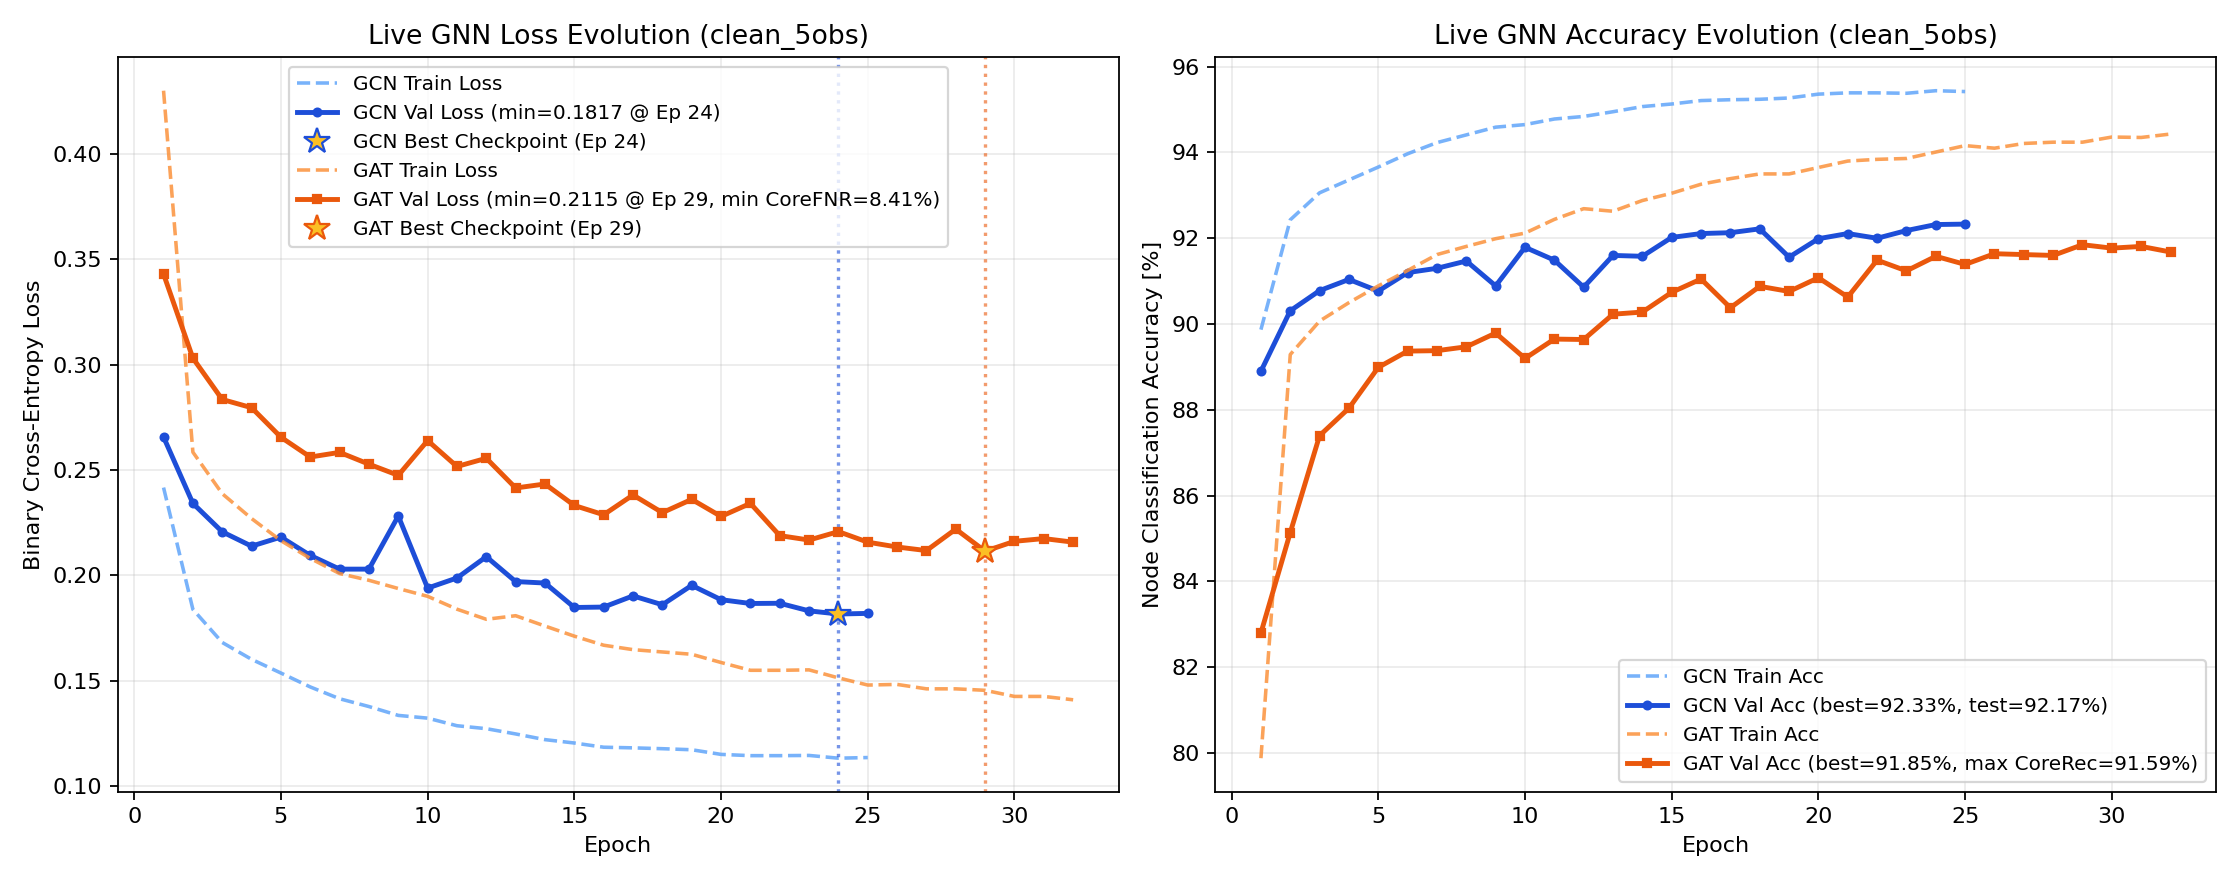
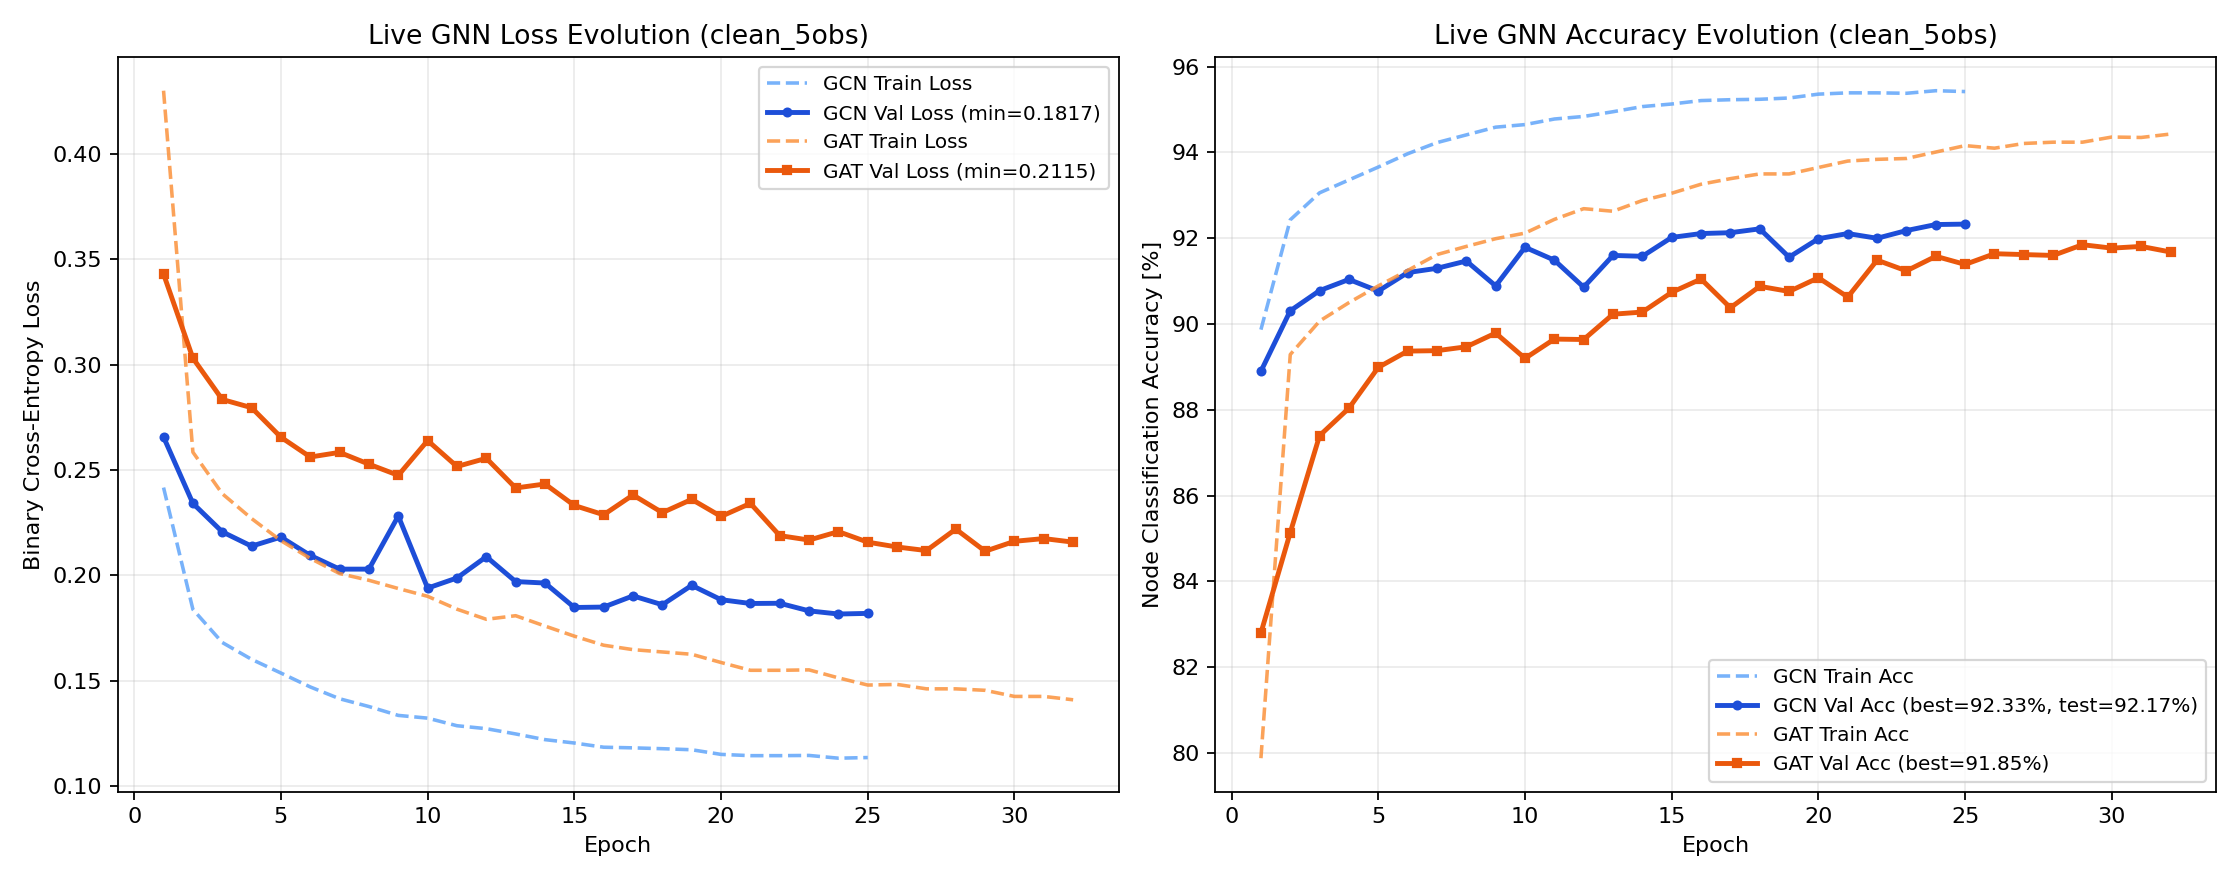
Update Study 2 live status and figures (2026-11-13 15:24)

Changed region(s): [[0.125, 0.0614, 0.5, 0.2761], [0.7188, 0.7364, 0.9688, 0.8898], [0.4375, 0.6136, 0.4688, 0.6443]]

diff --git a/LIVE_STATUS.md b/LIVE_STATUS.md
@@ -1,16 +1,15 @@
 # Live Pipeline Status on Jed
 
 ```text
-[2026-11-13 15:23:19] Study 2 Pipeline Status on Jed
+[2026-11-13 15:24:59] Study 2 Pipeline Status on Jed
 - Step 1 (Plummer ICs): 81 / 81 ready
 - Step 2 (SWIFT Runs): 81 / 81 completed (101 snapshots)
 - Step 3 (Observables): Labels=81/81 | Clean=81/81 | GaiaNoisy=81/81
 - Step 4 (5D Graphs): Clean=81/81 | GaiaNoisy=81/81
 - Step 5/6 Live GNN Training Progress:
-  * clean_5obs/training_metrics_gat_clean.log: Ep 032 | Train 0.1410 (94.43%) | Val 0.2158 (91.68%, Best=91.85%) | CoreFNR: 9.87% (min=8.41%) | Test=In progress
+  * clean_5obs/training_metrics_gat_clean.log: Ep 032 | Train 0.1410 (94.43%) | Val 0.2158 (91.68%, Best=91.85%) | Test=In progress
   * clean_5obs/training_metrics_gcn_clean.log: Ep 025 | Train 0.1136 (95.42%) | Val 0.1820 (92.33%, Best=92.33%) | Test=92.17%
   * legacy/clean_5obs_static_5rot/training_metrics_gcn_clean.log: Ep 025 | Train 0.1136 (95.42%) | Val 0.1820 (92.33%, Best=92.33%) | Test=92.17%
-- Saved Model Checkpoints (.pth): 8 mirrored in GNN-jed/trained_models/study2/weights/
 
 SLURM Queue:
 JOBID  PARTITION                   NAME   ST       TIME  NODES NODELIST(REASON)
@@ -20,29 +19,16 @@ JOBID  PARTITION                   NAME   ST       TIME  NODES NODELIST(REASON)
 41146835_[0-4%   academic      Study2_Step6_4Obs   PD       0:00      2 (Dependency)
       41185010   academic Study2V2_Step4_BuildGr   PD       0:00      1 (Dependency)
 41185009_[0-80   academic Study2V2_Step3_Extract   PD       0:00      1 (Dependency)
-      41146834   academic   Study2_Step5_Train81    R 1-00:35:56      2 jst[317,320]
+      41146834   academic   Study2_Step5_Train81    R 1-00:37:50      2 jst[317,320]
 ```
 
 ## Live Neural Network Training Metrics
 
-| Experiment | Architecture | Latest Epoch | Train Loss | Train Acc | Val Loss | Val Acc | Best Val Acc | Core FNR | Test Acc | Test F1 |
-| :--- | :---: | :---: | :---: | :---: | :---: | :---: | :---: | :---: | :---: | :---: |
-| `clean_5obs` | **GAT** | 32 | 0.1410 | 94.43% | 0.2158 | 91.68% | **91.85%** | 8.41% (val min) | **In progress** | - |
-| `clean_5obs` | **GCN** | 25 | 0.1136 | 95.42% | 0.1820 | 92.33% | **92.33%** | - | **92.17%** | 0.8886 |
-| `clean_5obs_static_5rot` | **GCN** | 25 | 0.1136 | 95.42% | 0.1820 | 92.33% | **92.33%** | - | **92.17%** | 0.8886 |
-
-## Saved Model Weights (`.pth` Checkpoints)
-
-| Checkpoint | Size | Experiment Path | Central Archive Mirror |
-| :--- | :---: | :--- | :--- |
-| `best_gat_clean.pth` | 361.2 KB | `GNN-jed/trained_models/study2/clean_5obs/best_gat_clean.pth` | `GNN-jed/trained_models/study2/weights/best_gat_clean.pth` |
-| `best_gat_clean_ep18_backup.pth` | 361.2 KB | `GNN-jed/trained_models/study2/clean_5obs/best_gat_clean_ep18_backup.pth` | `GNN-jed/trained_models/study2/weights/best_gat_clean_ep18_backup.pth` |
-| `best_gcn_clean.pth` | 120.0 KB | `GNN-jed/trained_models/study2/clean_5obs/best_gcn_clean.pth` | `GNN-jed/trained_models/study2/weights/best_gcn_clean.pth` |
-| `best_gat_clean_ep18_backup.pth` | 361.2 KB | `GNN-jed/trained_models/study2/legacy/clean_5obs_static_5rot/best_gat_clean_ep18_backup.pth` | `GNN-jed/trained_models/study2/weights/best_gat_clean_ep18_backup.pth` |
-| `best_gcn_clean.pth` | 120.0 KB | `GNN-jed/trained_models/study2/legacy/clean_5obs_static_5rot/best_gcn_clean.pth` | `GNN-jed/trained_models/study2/weights/best_gcn_clean.pth` |
-| `best_gat_clean.pth` | 361.2 KB | `GNN-jed/trained_models/study2/legacy/weights/best_gat_clean.pth` | `GNN-jed/trained_models/study2/weights/best_gat_clean.pth` |
-| `best_gat_clean_ep18_backup.pth` | 361.2 KB | `GNN-jed/trained_models/study2/legacy/weights/best_gat_clean_ep18_backup.pth` | `GNN-jed/trained_models/study2/weights/best_gat_clean_ep18_backup.pth` |
-| `best_gcn_clean.pth` | 120.0 KB | `GNN-jed/trained_models/study2/legacy/weights/best_gcn_clean.pth` | `GNN-jed/trained_models/study2/weights/best_gcn_clean.pth` |
+| Experiment | Architecture | Latest Epoch | Train Loss | Train Acc | Val Loss | Val Acc | Best Val Acc | Test Acc | Test F1 |
+| :--- | :---: | :---: | :---: | :---: | :---: | :---: | :---: | :---: | :---: |
+| `clean_5obs` | **GAT** | 32 | 0.1410 | 94.43% | 0.2158 | 91.68% | **91.85%** | **In progress** | - |
+| `clean_5obs` | **GCN** | 25 | 0.1136 | 95.42% | 0.1820 | 92.33% | **92.33%** | **92.17%** | 0.8886 |
+| `clean_5obs_static_5rot` | **GCN** | 25 | 0.1136 | 95.42% | 0.1820 | 92.33% | **92.33%** | **92.17%** | 0.8886 |
 
 ## Real-Time GNN Learning Curves (Loss & Accuracy Evolution)
 
